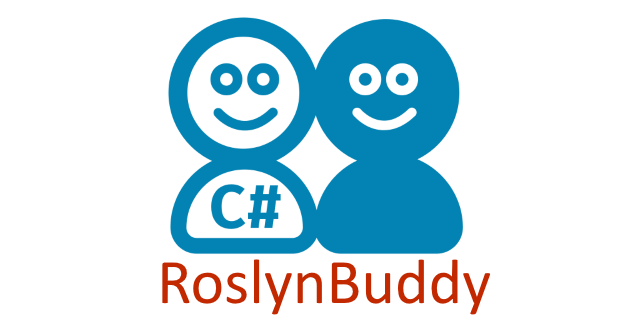
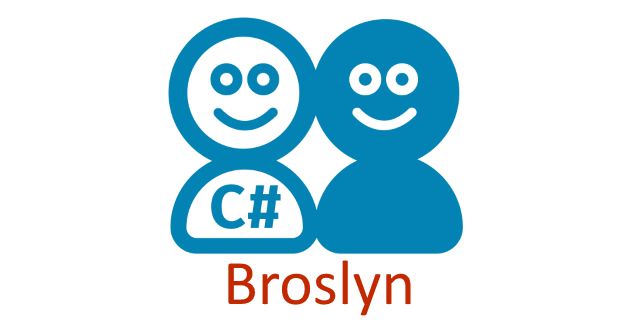
Change name to Broslyn

Changed region(s): [[0.25, 0.8125, 0.7812, 1.0]]

diff --git a/src/Broslyn/CSharpCompilationCapture.cs b/src/Broslyn/CSharpCompilationCapture.cs
@@ -8,7 +8,7 @@ using System.Text.RegularExpressions;
 using Microsoft.CodeAnalysis;
 using Microsoft.CodeAnalysis.CSharp;
 
-namespace RoslynBuddy
+namespace Broslyn
 {
     /// <summary>
     /// Frontend class to capture the build of a project/solution that contains CSharp projects.

diff --git a/src/Broslyn/CSharpCompilationCaptureResult.cs b/src/Broslyn/CSharpCompilationCaptureResult.cs
@@ -2,7 +2,7 @@
 using Microsoft.CodeAnalysis;
 using Microsoft.CodeAnalysis.CSharp;
 
-namespace RoslynBuddy
+namespace Broslyn
 {
     /// <summary>
     /// Result of a CSharp compilation capture that provides access to a Roslyn Workspace to allow in memory inspection.

diff --git a/src/Broslyn.Tests/CSharpCompilationCaptureTests.cs b/src/Broslyn.Tests/CSharpCompilationCaptureTests.cs
@@ -7,7 +7,7 @@ using System.Threading.Tasks;
 using Microsoft.CodeAnalysis;
 using NUnit.Framework;
 
-namespace RoslynBuddy.Tests
+namespace Broslyn.Tests
 {
     /// <summary>
     /// Testing <see cref="CSharpCompilationCapture"/>

diff --git a/readme.md b/readme.md
@@ -1,4 +1,4 @@
-# RoslynBuddy [![Build Status](https://github.com/xoofx/RoslynBuddy/workflows/ci/badge.svg?branch=master)](https://github.com/xoofx/RoslynBuddy/actions) [![NuGet](https://img.shields.io/nuget/v/RoslynBuddy.svg)](https://www.nuget.org/packages/RoslynBuddy/)
+# Broslyn [![Build Status](https://github.com/xoofx/Broslyn/workflows/ci/badge.svg?branch=master)](https://github.com/xoofx/Broslyn/actions) [![NuGet](https://img.shields.io/nuget/v/Broslyn.svg)](https://www.nuget.org/packages/Broslyn/)
 
 <img align="right" width="160px" height="160px" src="img/logo.png">
 
@@ -24,7 +24,7 @@ If you have been using `MSBuildWorkdspace` to get an access to CSharp project, y
 
 This is a known issue [Use more permissive load context for MSBuildWorkspace by default](https://github.com/dotnet/roslyn/issues/49248) and I hope that it will be fix in the future.
 
-To workaround this problem and allow to load a CSharp Project with Roslyn no matter which SDK is intalled, RoslynBuddy is working like this:
+To workaround this problem and allow to load a CSharp Project with Roslyn no matter which SDK is intalled, Broslyn is working like this:
 
 - It runs a `dotnet msbuild /t:rebuild` on the project or solution passed to it with an output to a binlog file.
 - By running the re-build, we are able to capture the exact `csc` command issued by the build system and we can extract them with by [reading compiler invocations](https://github.com/KirillOsenkov/MSBuildStructuredLog/wiki/Reading-Compiler-invocations) using the fantastic [MSBuildStruturedLog](https://github.com/KirillOsenkov/MSBuildStructuredLog) library.
@@ -40,7 +40,7 @@ This software is released under the [BSD-Clause 2 license](https://opensource.or
 ## Related projects
 
 * [Buildalizer](https://github.com/daveaglick/Buildalyzer): A more featured library if you are looking for a better introspection on project references and dependencies
-  - In RoslynBuddy, a Project will only contain assembly references in order to compile to CSharp but will not provide full introspection on the original project references.
+  - In Broslyn, a Project will only contain assembly references in order to compile to CSharp but will not provide full introspection on the original project references.
 
 ## Author
 
